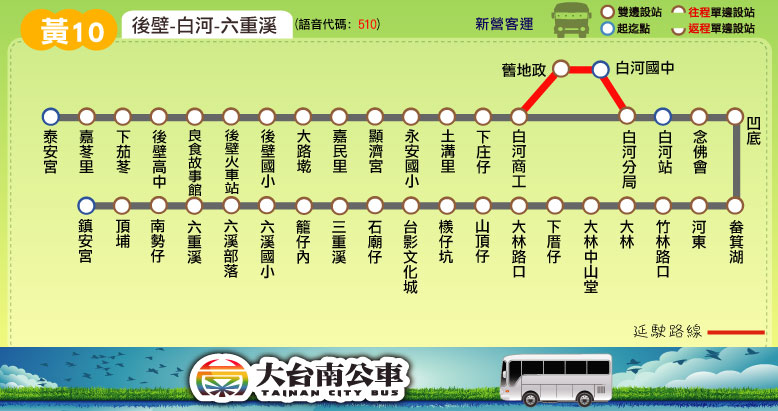
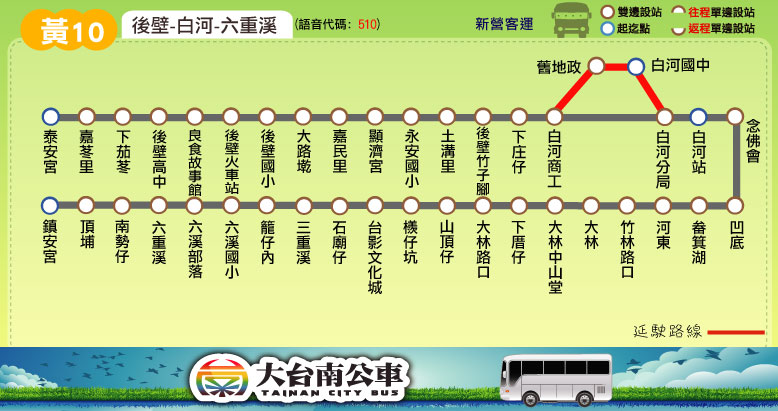
新增站位：黃10 (後壁竹子腳)

diff --git a/route/fare_and_time/yellow_10.js b/route/fare_and_time/yellow_10.js
@@ -4,7 +4,7 @@ yellow_10_interval_stop = [ // 2015.08.31 checked
 ["後壁高中","良食故事館","後壁火車站","後壁國小"], // 後壁火車站
 ["大路墘"], // 大路墘
 ["嘉民里","顯濟宮","永安國小"], // 顯濟宮
-["土溝里","下庄仔"], // 土溝里
+["土溝里","後壁竹子腳","下庄仔"], // 土溝里
 ["白河商工","舊地政","白河國中","白河分局","白河站","念佛會"], // 白河
 ["凹底","畚箕湖","河東"], // 河東
 ["竹林路口","大林","大林中山堂","下厝仔"], // 大林
@@ -14,7 +14,6 @@ yellow_10_interval_stop = [ // 2015.08.31 checked
 ["三重溪","籠仔內"], // 籠仔內
 ["六溪國小","六溪部落","六重溪","南勢仔","頂埔","鎮安宮"] // 六重溪
 ];
-yellow_10_stop_time_consume = [0,1,3,4,5,7,9,11,12,13,14,19,20,22,23,25,27,29,29,30,32,33,34,34,36,37,38,40,41,42,44,44,45,46,48,50];
 yellow_10_fare = [
 [26],
 [26,26],
